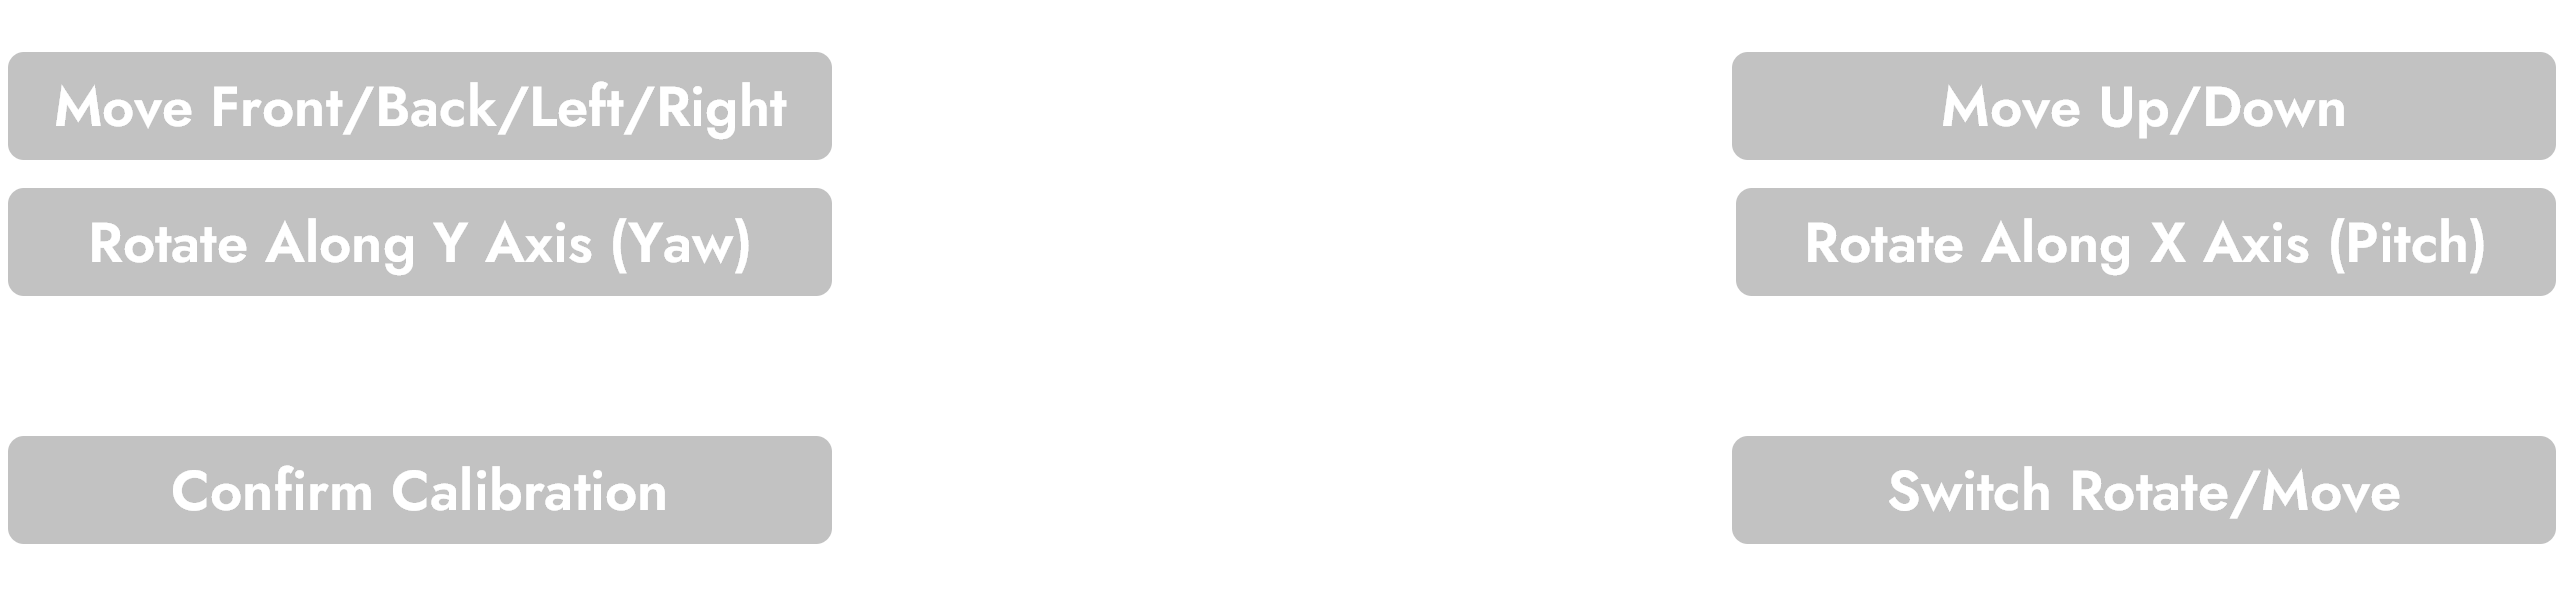
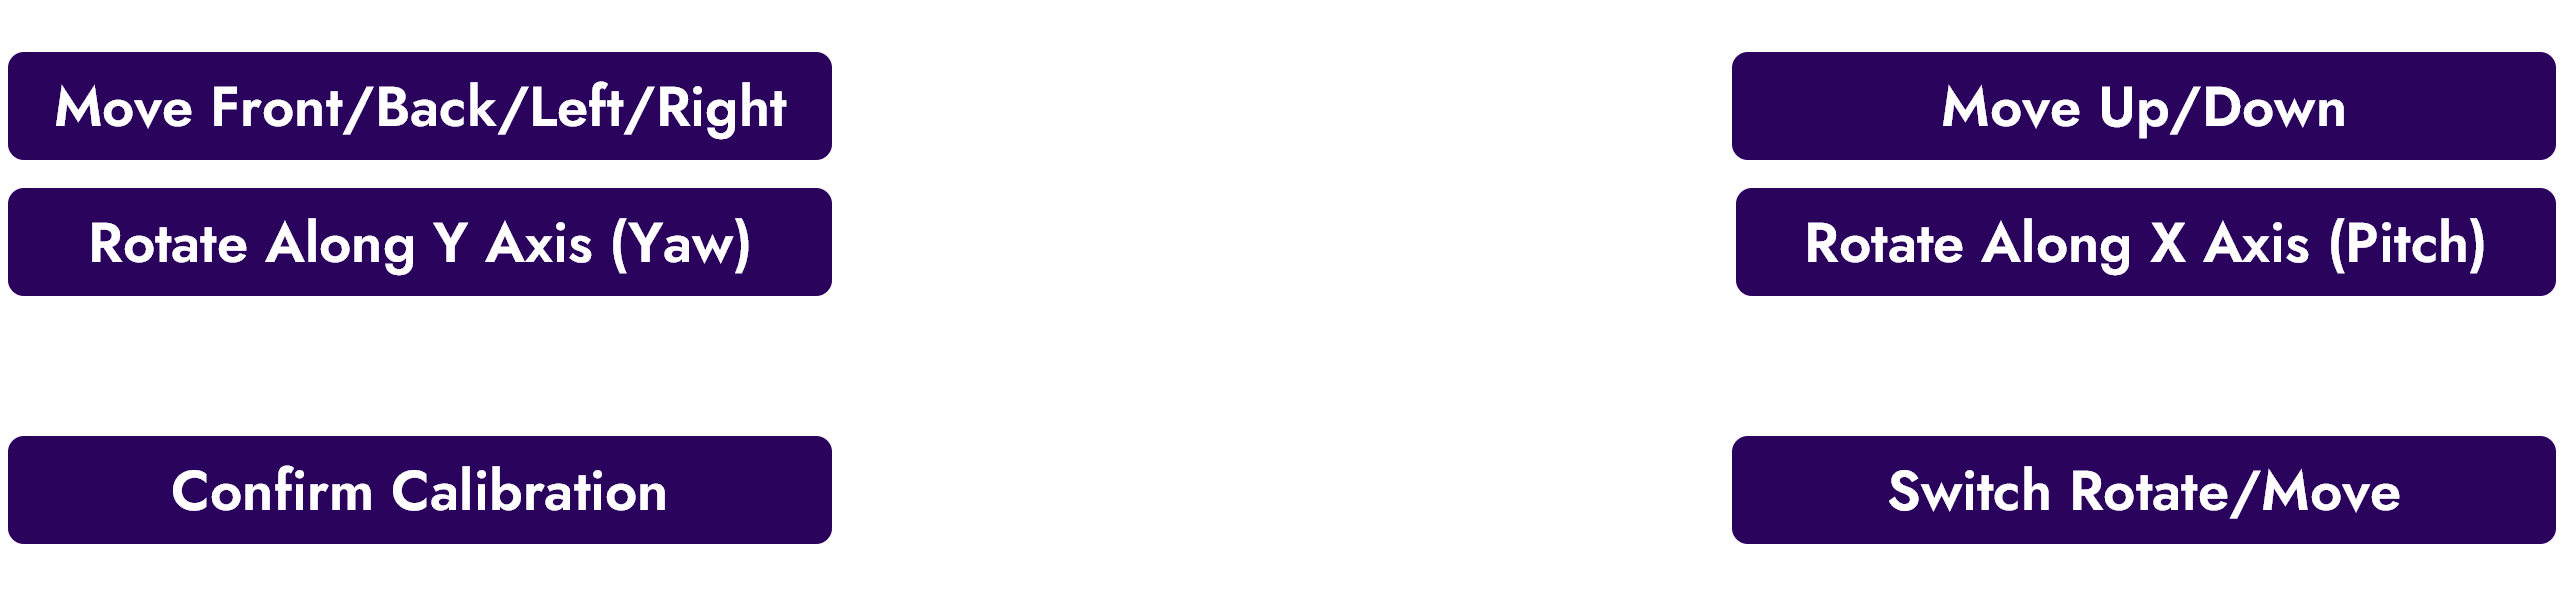
Gradients, gradients everywhere...

diff --git a/KinectToVR/kMainWindow.qml b/KinectToVR/kMainWindow.qml
@@ -4588,11 +4588,9 @@ texture2D(colorSource, qt_TexCoord0)
                 width: 792
                 height: 193
                 hoverEnabled: true
-                onHoveredChanged: {
-                    owbg.color = waistOffsetButton.hovered ? (offsetsControl.visibleOffsetsWindowIndex === 0 ? sbcHighlightColor : sbHighlightColor) : (offsetsControl.visibleOffsetsWindowIndex === 0 ? gradientStartColor : secondaryButtonColor)
-                }
 
                 Text {
+                    z: 101
                     text: qsTr("Waist")
                     font.bold: true
                     rightPadding: 0
@@ -4612,15 +4610,43 @@ texture2D(colorSource, qt_TexCoord0)
                 }
                 highlighted: false
                 flat: true
+
                 background: Rectangle {
                     id: owbg
-                    color: gradientStartColor
+                    color: secondaryButtonColor
                     radius: 30
+
                     Rectangle {
-                        color: owbg.color
-                        anchors.leftMargin: 662
+                        z: 102
+                        visible: waistOffsetButton.hovered
                         anchors.fill: parent
+                        radius: 30
+                        color: "#43fdfdfd"
                     }
+
+                    Rectangle {
+                        z: 100
+                        anchors.fill: parent
+                        radius: 30
+                        visible: offsetsControl.visibleOffsetsWindowIndex === 0
+                        gradient: Gradient {
+                            orientation: Gradient.Horizontal
+                            GradientStop {
+                                position: 0.0
+                                color: gradientStartColor
+                            }
+                            GradientStop {
+                                position: 1.0
+                                color: gradientEndColor
+                            }
+                        }
+                    }
+
+                    // Rectangle {
+                    //     color: gradientEndColor
+                    //     anchors.leftMargin: 662
+                    //     anchors.fill: parent
+                    // }
                 }
                 onClicked: {
                     waistOffsetControl.visible = true
@@ -4643,14 +4669,40 @@ texture2D(colorSource, qt_TexCoord0)
                 hoverEnabled: true
                 highlighted: false
                 flat: true
-                onHoveredChanged: {
-                    olfbg.color = leftFootOffsetButton.hovered ? (offsetsControl.visibleOffsetsWindowIndex === 1 ? sbcHighlightColor : sbHighlightColor) : (offsetsControl.visibleOffsetsWindowIndex === 1 ? gradientStartColor : secondaryButtonColor)
-                }
+
                 background: Rectangle {
                     id: olfbg
                     color: secondaryButtonColor
+                    radius: 30
+
+                    Rectangle {
+                        z: 102
+                        visible: leftFootOffsetButton.hovered || connectOffsetsCheckBox.checked && rightFootOffsetButton.hovered
+                        anchors.fill: parent
+                        radius: 30
+                        color: "#43fdfdfd"
+                    }
+
+                    Rectangle {
+                        z: 100
+                        anchors.fill: parent
+                        radius: 30
+                        visible: offsetsControl.visibleOffsetsWindowIndex === 1
+                        gradient: Gradient {
+                            orientation: Gradient.Horizontal
+                            GradientStop {
+                                position: 0.0
+                                color: gradientStartColor
+                            }
+                            GradientStop {
+                                position: 1.0
+                                color: gradientEndColor
+                            }
+                        }
+                    }
                 }
                 Text {
+                    z: 101
                     color: "#ffffff"
                     text: qsTr("Left Foot")
                     anchors.topMargin: 0
@@ -4675,7 +4727,7 @@ texture2D(colorSource, qt_TexCoord0)
                     offsetsControl.visibleOffsetsWindowIndex = 1
 
                     owbg.color = secondaryButtonColor
-                    if (connectOffsetsCheckBox.checked === true) {
+                    if (connectOffsetsCheckBox.checked) {
                         olfbg.color = gradientStartColor
                         orfbg.color = gradientStartColor
                     } else {
@@ -4694,20 +4746,40 @@ texture2D(colorSource, qt_TexCoord0)
                 hoverEnabled: true
                 highlighted: false
                 flat: true
-                onHoveredChanged: {
-                    orfbg.color = rightFootOffsetButton.hovered ? (offsetsControl.visibleOffsetsWindowIndex === 2 ? sbcHighlightColor : (offsetsControl.visibleOffsetsWindowIndex === 1 && connectOffsetsCheckBox.checked ? sbcHighlightColor : sbHighlightColor)) : (offsetsControl.visibleOffsetsWindowIndex === 2 ? gradientStartColor : (offsetsControl.visibleOffsetsWindowIndex === 1 && connectOffsetsCheckBox.checked ? gradientStartColor : secondaryButtonColor))
-                }
+                
                 background: Rectangle {
                     id: orfbg
                     color: secondaryButtonColor
                     radius: 30
+
                     Rectangle {
-                        color: orfbg.color
-                        anchors.rightMargin: 683
+                        z: 102
+                        visible: rightFootOffsetButton.hovered || connectOffsetsCheckBox.checked && leftFootOffsetButton.hovered
                         anchors.fill: parent
+                        radius: 30
+                        color: "#43fdfdfd"
+                    }
+
+                    Rectangle {
+                        z: 100
+                        anchors.fill: parent
+                        radius: 30
+                        visible: offsetsControl.visibleOffsetsWindowIndex === 2 || connectOffsetsCheckBox.checked && offsetsControl.visibleOffsetsWindowIndex === 1
+                        gradient: Gradient {
+                            orientation: Gradient.Horizontal
+                            GradientStop {
+                                position: 0.0
+                                color: gradientStartColor
+                            }
+                            GradientStop {
+                                position: 1.0
+                                color: gradientEndColor
+                            }
+                        }
                     }
                 }
                 Text {
+                    z: 101
                     color: "#ffffff"
                     text: qsTr("Right Foot")
                     anchors.topMargin: 0
@@ -4729,7 +4801,7 @@ texture2D(colorSource, qt_TexCoord0)
                     waistOffsetControl.visible = false
 
                     owbg.color = secondaryButtonColor
-                    if (connectOffsetsCheckBox.checked === true) {
+                    if (connectOffsetsCheckBox.checked) {
                         olfbg.color = gradientStartColor
                         orfbg.color = gradientStartColor
                         leftFootOffsetControl.visible = true
@@ -4835,6 +4907,18 @@ texture2D(colorSource, qt_TexCoord0)
                     id: orfbg1
                     color: secondaryButtonColor
                     radius: 30
+
+                    gradient: Gradient {
+                        orientation: Gradient.Horizontal
+                        GradientStop {
+                            position: 0.0
+                            color: gradientStartColor
+                        }
+                        GradientStop {
+                            position: 1.0
+                            color: gradientEndColor
+                        }
+                    }
                 }
                 Rectangle {
                     visible: parent.hovered
@@ -4878,21 +4962,20 @@ texture2D(colorSource, qt_TexCoord0)
                 height: 193
                 background: Rectangle {
                     id: orfbg2
-                    color: primaryColor
+                    color: secondaryButtonColor
                     radius: 30
                     border.color: secondaryButtonColor
                     border.width: 15
                     Rectangle {
                         visible: parent.parent.hovered
                         anchors.fill: parent
-                        anchors.margins: 15
                         radius: 20
                         color: "#43fdfdfd"
                     }
                 }
                 flat: true
                 Text {
-                    color: secondaryButtonColor
+                    color: "#ffffff"
                     text: qsTr("Cancel")
                     anchors.bottomMargin: 0
                     anchors.leftMargin: 0
@@ -5168,6 +5251,18 @@ texture2D(colorSource, qt_TexCoord0)
                         color: secondaryButtonColor
                         radius: 30
                         border.width: 0
+
+                        gradient: Gradient {
+                            orientation: Gradient.Horizontal
+                            GradientStop {
+                                position: 0.0
+                                color: gradientStartColor
+                            }
+                            GradientStop {
+                                position: 1.0
+                                color: gradientEndColor
+                            }
+                        }
                     }
                     flat: true
                     hoverEnabled: true
@@ -5213,21 +5308,20 @@ texture2D(colorSource, qt_TexCoord0)
                     visible: true
                     background: Rectangle {
                         id: cmbg1
-                        color: primaryColor
+                        color: secondaryButtonColor
                         radius: 30
                         border.color: secondaryButtonColor
                         border.width: 15
                         Rectangle {
                             visible: parent.parent.hovered
                             anchors.fill: parent
-                            anchors.margins: 15
                             radius: 20
                             color: "#43fdfdfd"
                         }
                     }
                     flat: true
                     Text {
-                        color: secondaryButtonColor
+                        color: "#ffffff"
                         text: qsTr("Cancel")
                         anchors.bottomMargin: 0
                         anchors.leftMargin: 0
@@ -5283,6 +5377,7 @@ texture2D(colorSource, qt_TexCoord0)
                 }
 
                 Label {
+                    objectName: "Autocalib_title"
                     y: 388
                     color: "#ffffff"
                     anchors.horizontalCenter: parent.horizontalCenter
@@ -5298,8 +5393,20 @@ texture2D(colorSource, qt_TexCoord0)
                     height: 500
                     anchors.centerIn: parent
                     radius: 300
-                    color: secondaryButtonColor
+                    //color: secondaryButtonColor
                     id: calibSeconds
+
+                    gradient: Gradient {
+                        orientation: Gradient.Horizontal
+                        GradientStop {
+                            position: 0.0
+                            color: gradientStartColor
+                        }
+                        GradientStop {
+                            position: 1.0
+                            color: gradientEndColor
+                        }
+                    }
 
                     Label {
                         color: "#ffffff"
@@ -5336,6 +5443,18 @@ texture2D(colorSource, qt_TexCoord0)
                         id: cabg
                         color: secondaryButtonColor
                         radius: 30
+
+                        gradient: Gradient {
+                            orientation: Gradient.Horizontal
+                            GradientStop {
+                                position: 0.0
+                                color: gradientStartColor
+                            }
+                            GradientStop {
+                                position: 1.0
+                                color: gradientEndColor
+                            }
+                        }
                     }
                     flat: true
                     hoverEnabled: true
@@ -5366,7 +5485,7 @@ texture2D(colorSource, qt_TexCoord0)
                     }
                     onClicked: {
                         _cppContext.cppSlot("AUTOCALIBRATION_STARTED")
-                        calibSeconds.color = gradientStartColor
+                        //calibSeconds.color = gradientStartColor
                         cancelAutoCalibButton.visible = false
                         startAutoCalibButton.visible = false
                         abortAutoCalibButton.visible = true
@@ -5383,21 +5502,20 @@ texture2D(colorSource, qt_TexCoord0)
                     visible: true
                     background: Rectangle {
                         id: cabg1
-                        color: primaryColor
+                        color: secondaryButtonColor
                         radius: 30
                         border.color: secondaryButtonColor
                         border.width: 15
                         Rectangle {
                             visible: parent.parent.hovered
                             anchors.fill: parent
-                            anchors.margins: 15
                             radius: 20
                             color: "#43fdfdfd"
                         }
                     }
                     flat: true
                     Text {
-                        color: secondaryButtonColor
+                        color: "#ffffff"
                         text: qsTr("Cancel")
                         anchors.bottomMargin: 0
                         anchors.leftMargin: 0
@@ -5434,21 +5552,20 @@ texture2D(colorSource, qt_TexCoord0)
                     visible: false
                     background: Rectangle {
                         id: cabg11
-                        color: primaryColor
+                        color: secondaryButtonColor
                         radius: 30
                         border.color: secondaryButtonColor
                         border.width: 15
                         Rectangle {
                             visible: parent.parent.hovered
                             anchors.fill: parent
-                            anchors.margins: 15
                             radius: 20
                             color: "#43fdfdfd"
                         }
                     }
                     flat: true
                     Text {
-                        color: secondaryButtonColor
+                        color: "#ffffff"
                         text: qsTr("Cancel")
                         anchors.bottomMargin: 0
                         anchors.leftMargin: 0

diff --git a/KinectToVR/KinectToVR.cpp b/KinectToVR/KinectToVR.cpp
@@ -320,12 +320,21 @@ void startCalibration(bool automatic)
 				}
 
 				/* Compose translations */
-			
 
-				/* Finish: close windows, update labels and save */
-				QMetaObject::invokeMethod(quickObj->findChild<QObject*>("abortAutoCalibButton"), "closeAutoCalibration");
+
+				/* Reset labels */
 				quickObj->findChild<QObject*>("Autocalib_seconds")->setProperty("text", "~");
 				quickObj->findChild<QObject*>("Autocalib_move")->setProperty("text", "");
+			
+				/* Notify that we're done */
+				if (!abortCalibration) {
+					quickObj->findChild<QObject*>("Autocalib_title")->setProperty("text", "Calibration done!");
+					std::this_thread::sleep_for(std::chrono::seconds(2));
+				}
+
+				/* Finish: close windows */
+				QMetaObject::invokeMethod(quickObj->findChild<QObject*>("abortAutoCalibButton"), "closeAutoCalibration");
+				quickObj->findChild<QObject*>("Autocalib_title")->setProperty("text", "Follow the directions");
 
 			}).detach();
 	}
